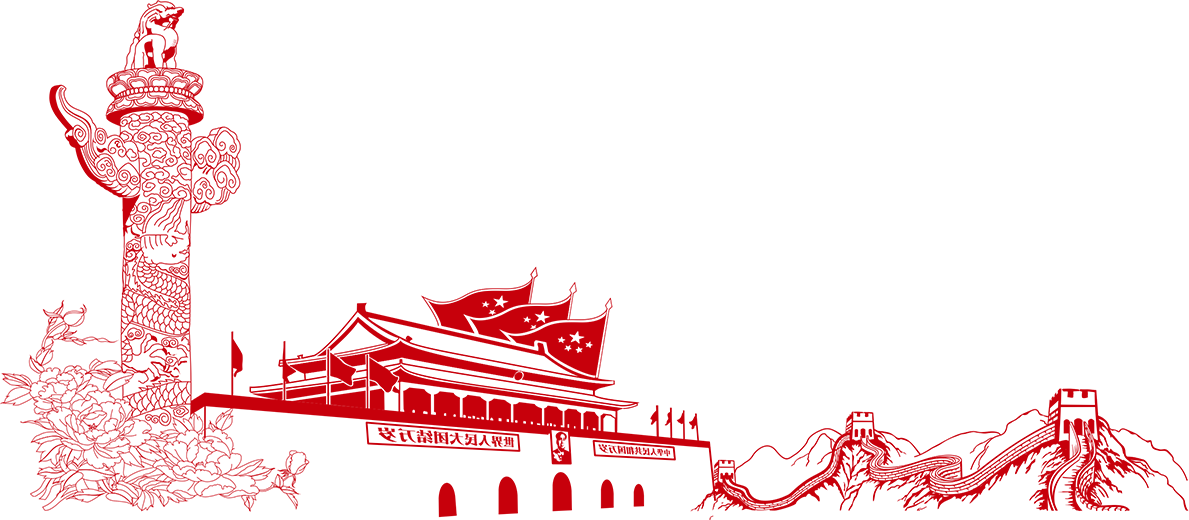
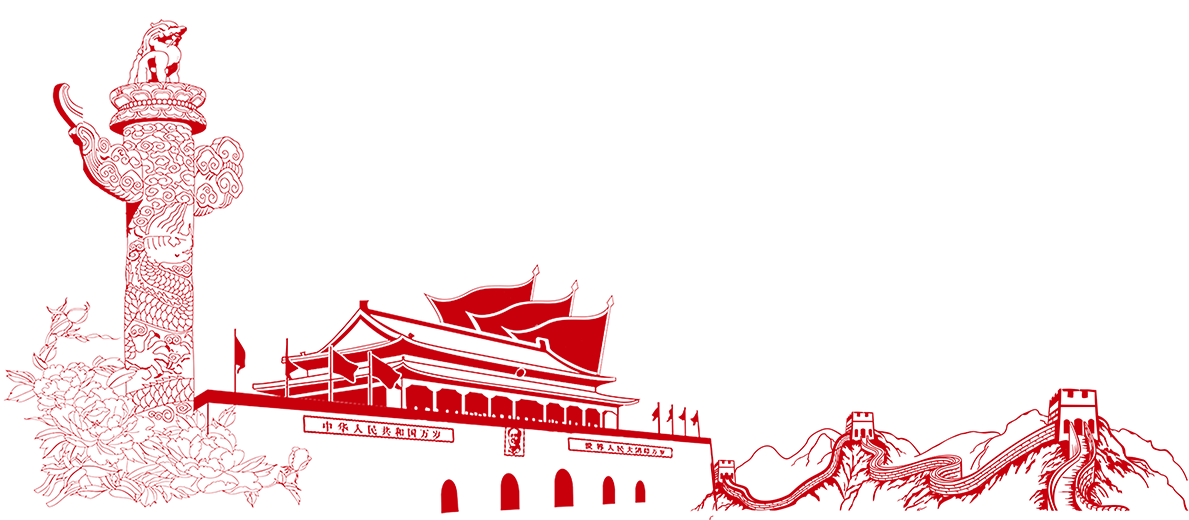
update bottom background img

Changed region(s): [[0.0, 0.0, 0.6224, 0.9846], [0.3734, 0.9231, 0.5601, 1.0], [0.3423, 0.9538, 0.3734, 0.9846]]

diff --git a/src/App.vue b/src/App.vue
@@ -77,7 +77,7 @@
             bottom: calc(32rem / 96);
             width: calc(1190rem / 96);
             height: calc(520rem / 96);
-            background: url("./assets/img/building.png") no-repeat center;
+            background: url("./assets/img/building.png") no-repeat center -20px;
             background-size: 100%;
             z-index: 998;
             animation: fadeIn 1s linear forwards;
@@ -89,7 +89,7 @@
             bottom: 0;
             width: 100%;
             height: calc(208rem / 96);
-            background: url("./assets/img/flag.png") no-repeat center;
+            background: url("./assets/img/flag.png") no-repeat center 10px;
             background-size: 100%;
             z-index: 999;
             animation: bottom .6s linear forwards;
